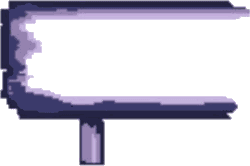
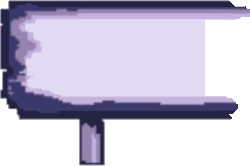
Jacques Hammer: smashed signs keep their face on every style
The halves of four sign styles had the pale board cut away as background;
rebuilt from the whole sign.

Claude-Session: https://claude.ai/code/session_01KjbiH1Gxo3FA48ifQDakKd

diff --git a/sw.js b/sw.js
@@ -1,6 +1,6 @@
 // Offline support. Always tries the network first so updates appear straight
 // away; falls back to the saved copy when there is no connection.
-const CACHE = 'latin-v124';
+const CACHE = 'latin-v125';
 const CORE = ['./', 'index.html', 'app.css', 'app.js', 'vocab.js', 'memory.js', 'phrases.js', 'effects.js', 'practice.js', 'hammer.js', 'read.js', 'synonyms.js', 'book.js', 'snap.js', 'forms.js', 'sync.js', 'beasts.js', 'manifest.webmanifest', ...["blaster1.png", "blaster2.png", "blaster3.png", "brain1.png", "brain2.png", "brain3.png", "freezeray1.png", "freezeturret1.png", "freezeturret2.png", "freezeturret3.png", "handy1.png", "handy2.png", "handy3.png", "mine1.png", "mine2.png", "mine3.png", "miner1.png", "miner2.png", "miner3.png", "plasma1.png", "proj_bullet.png", "proj_ice.png", "proj_lava.png", "proj_ring.png", "proj_rock.png", "shield1.png", "shield2.png", "shield3.png", "floaty1.png", "generator1.png", "generator2.png", "generator3.png", "solar1.png", "sonic1.png", "sonic2.png", "sonic3.png"].map(a => 'art/weapons/' + a), ...['grass', 'soil', 'path', 'mower', 'bush', 'fence'].map(a => 'art/lawn/' + a + '.png'), 'art/lawn/grass_real.jpg', 'art/banners/sentences.jpg', 'art/banners/cards.jpg', 'art/banners/wordlist.jpg', 'art/banners/squishygeddon.jpg', 'art/banners/hammer.jpg', 'art/banners/beastpedia.jpg', 'art/banners/passages.jpg', 'art/banners/book.jpg', 'art/banners/snap.jpg', 'art/banners/library.jpg', 'art/beasts/beasts.json', 'art/beasts/trumpets_l.png', 'art/beasts/trumpets_r.png', 'art/beasts/alba_adult.webp', 'art/beasts/alba_baby.webp', 'art/beasts/alba_egg.webp', 'art/beasts/alba_teen.webp', 'art/beasts/avenella_adult.webp', 'art/beasts/avenella_baby.webp', 'art/beasts/avenella_egg.webp', 'art/beasts/avenella_teen.webp', 'art/beasts/bayou_adult.webp', 'art/beasts/bayou_baby.webp', 'art/beasts/bayou_egg.webp', 'art/beasts/belpy_adult.webp', 'art/beasts/belpy_egg.webp', 'art/beasts/belpy_teen.webp', 'art/beasts/berai_adult.webp', 'art/beasts/berai_egg.webp', 'art/beasts/berai_teen.webp', 'art/beasts/candeerlabra_adult.webp', 'art/beasts/candeerlabra_baby.webp', 'art/beasts/candeerlabra_egg.webp', 'art/beasts/candeerlabra_teen.webp', 'art/beasts/catapus_adult.webp', 'art/beasts/catapus_baby.webp', 'art/beasts/catapus_egg.webp', 'art/beasts/catapus_teen.webp', 'art/beasts/cerebrain_adult.webp', 'art/beasts/cerebrain_baby.webp', 'art/beasts/cerebrain_teen.webp', 'art/beasts/cousi_adult.webp', 'art/beasts/cousi_egg.webp', 'art/beasts/cousi_teen.webp', 'art/beasts/creep_adult.webp', 'art/beasts/creep_baby.webp', 'art/beasts/creep_egg.webp', 'art/beasts/creep_teen.webp', 'art/beasts/crockasaur_adult.webp', 'art/beasts/crockasaur_baby.webp', 'art/beasts/crockasaur_egg.webp', 'art/beasts/crockasaur_teen.webp', 'art/beasts/dandilion_adult.webp', 'art/beasts/dandilion_baby.webp', 'art/beasts/dandilion_egg.webp', 'art/beasts/dandilion_teen.webp', 'art/beasts/dueljaw_adult.webp', 'art/beasts/dueljaw_baby.webp', 'art/beasts/dueljaw_egg.webp', 'art/beasts/dueljaw_teen.webp', 'art/beasts/efarium_adult.webp', 'art/beasts/efarium_baby.webp', 'art/beasts/efarium_egg.webp', 'art/beasts/eir_adult.webp', 'art/beasts/eir_baby.webp', 'art/beasts/eir_egg.webp', 'art/beasts/eir_teen.webp', 'art/beasts/essie_baby.webp', 'art/beasts/essie_egg.webp', 'art/beasts/firelot_adult.webp', 'art/beasts/firelot_teen.webp', 'art/beasts/flamondis_adult.webp', 'art/beasts/flamondis_baby.webp', 'art/beasts/flamondis_egg.webp', 'art/beasts/flamondis_teen.webp', 'art/beasts/frogit_adult.webp', 'art/beasts/frogit_baby.webp', 'art/beasts/frogit_egg.webp', 'art/beasts/frogit_teen.webp', 'art/beasts/furexa_adult.webp', 'art/beasts/furexa_baby.webp', 'art/beasts/furexa_egg.webp', 'art/beasts/furexa_teen.webp', 'art/beasts/griffix_adult.webp', 'art/beasts/griffix_baby.webp', 'art/beasts/griffix_egg.webp', 'art/beasts/harparee_adult.webp', 'art/beasts/harparee_baby.webp', 'art/beasts/ifrit_adult.webp', 'art/beasts/ifrit_egg.webp', 'art/beasts/ifrit_teen.webp', 'art/beasts/ingens_adult.webp', 'art/beasts/ingens_baby.webp', 'art/beasts/ingens_egg.webp', 'art/beasts/javara_adult.webp', 'art/beasts/javara_baby.webp', 'art/beasts/javara_egg.webp', 'art/beasts/jaxi_adult.webp', 'art/beasts/jaxi_baby.webp', 'art/beasts/jaxi_egg.webp', 'art/beasts/jaxi_teen.webp', 'art/beasts/jugglax_adult.webp', 'art/beasts/jugglax_baby.webp', 'art/beasts/jugglax_egg.webp', 'art/beasts/jugglax_teen.webp', 'art/beasts/leopix_adult.webp', 'art/beasts/leopix_baby.webp', 'art/beasts/leopix_teen.webp', 'art/beasts/lizanaut_adult.webp', 'art/beasts/lizanaut_baby.webp', 'art/beasts/lizanaut_egg.webp', 'art/beasts/lizanaut_teen.webp', 'art/beasts/mamoth_adult.webp', 'art/beasts/mamoth_baby.webp', 'art/beasts/mamoth_egg.webp', 'art/beasts/mamoth_teen.webp', 'art/beasts/manateeth_adult.webp', 'art/beasts/manateeth_baby.webp', 'art/beasts/manateeth_egg.webp', 'art/beasts/manateeth_teen.webp', 'art/beasts/moxi_adult.webp', 'art/beasts/moxi_baby.webp', 'art/beasts/moxi_egg.webp', 'art/beasts/nebula_adult.webp', 'art/beasts/nebula_baby.webp', 'art/beasts/nebula_egg.webp', 'art/beasts/nebula_teen.webp', 'art/beasts/noellia_adult.webp', 'art/beasts/noellia_baby.webp', 'art/beasts/noellia_egg.webp', 'art/beasts/noellia_teen.webp', 'art/beasts/nomobobo_adult.webp', 'art/beasts/nomobobo_baby.webp', 'art/beasts/nomobobo_egg.webp', 'art/beasts/nomobobo_teen.webp', 'art/beasts/opal_adult.webp', 'art/beasts/opal_baby.webp', 'art/beasts/opal_egg.webp', 'art/beasts/opal_teen.webp', 'art/beasts/orzala_adult.webp', 'art/beasts/orzala_baby.webp', 'art/beasts/orzala_egg.webp', 'art/beasts/orzala_teen.webp', 'art/beasts/owlet_adult.webp', 'art/beasts/owlet_baby.webp', 'art/beasts/owlet_egg.webp', 'art/beasts/owlet_teen.webp', 'art/beasts/pangash_adult.webp', 'art/beasts/pangash_baby.webp', 'art/beasts/pangash_egg.webp', 'art/beasts/pangash_teen.webp', 'art/beasts/pookie_adult.webp', 'art/beasts/pookie_baby.webp', 'art/beasts/pookie_egg.webp', 'art/beasts/pookie_teen.webp', 'art/beasts/pulsar_adult.webp', 'art/beasts/pulsar_baby.webp', 'art/beasts/pulsar_egg.webp', 'art/beasts/pulsar_teen.webp', 'art/beasts/raghu_adult.webp', 'art/beasts/raghu_baby.webp', 'art/beasts/raghu_egg.webp', 'art/beasts/raghu_teen.webp', 'art/beasts/raxa_baby.webp', 'art/beasts/raxa_egg.webp', 'art/beasts/raxa_teen.webp', 'art/beasts/royalvizaro_adult.webp', 'art/beasts/royalvizaro_baby.webp', 'art/beasts/royalvizaro_egg.webp', 'art/beasts/royalvizaro_teen.webp', 'art/beasts/salmandem_adult.webp', 'art/beasts/salmandem_baby.webp', 'art/beasts/salmandem_egg.webp', 'art/beasts/salmandem_teen.webp', 'art/beasts/shelilla_adult.webp', 'art/beasts/shelilla_baby.webp', 'art/beasts/shelilla_egg.webp', 'art/beasts/shelilla_teen.webp', 'art/beasts/slooga_adult.webp', 'art/beasts/slooga_baby.webp', 'art/beasts/slooga_egg.webp', 'art/beasts/sunbe_adult.webp', 'art/beasts/sunbe_baby.webp', 'art/beasts/sunbe_egg.webp', 'art/beasts/sunbe_teen.webp', 'art/beasts/thraxol_adult.webp', 'art/beasts/thraxol_egg.webp', 'art/beasts/thraxol_teen.webp', 'rig.js', ...["blaster1.json", "blaster1.png", "blaster3.json", "blaster3.png", "freezeray1.json", "freezeray1.png", "freezeturret2.json", "freezeturret2.png", "freezeturret3.json", "freezeturret3.png", "handy1.json", "handy1.png", "handy3.json", "handy3.png", "mine1.json", "mine1.png", "mine2.json", "mine2.png", "mine3.json", "mine3.png", "miner1.json", "miner1.png", "miner2.json", "miner2.png", "miner3.json", "miner3.png", "solar1.json", "solar1.png", "sonic1.json", "sonic1.png", "sonic2.json", "sonic2.png", "sonic3.json", "sonic3.png", "kamikaze.json", "kamikaze.png", "chomp.json", "chomp.png", "skitter.json", "skitter.png", "flying.json", "flying.png", "chompking.json", "chompking.png", "broodqueen.json", "broodqueen.png", "ghostking.json", "ghostking.png", "sharky.json", "sharky.png", "sharkling.json", "sharkling.png", "unicorn.json", "unicorn.png", "jacque.json", "jacque.png", "decoy.json", "decoy.png", "dog.json", "dog.png", "dog_gb.json", "dog_gb.png", "dog_gc.json", "dog_gc.png", "dog_gg.json", "dog_gg.png", "dog_gp.json", "dog_gp.png", "barrelsmoke.json", "barrelsmoke.png", "generator1.json", "generator1.png", "generator2.json", "generator2.png", "generator3.json", "generator3.png"].map(a => 'art/rigs/' + a), 'art/ui/paper.jpg', 'icons/apple-touch-icon.png', 'icons/icon-192.png', 'icons/icon-512.png', 'icons/favicon-32.png'];
 const FILES = ['./', 'index.html', 'app.css', 'app.js', 'vocab.js', 'memory.js', 'phrases.js', 'effects.js', 'practice.js', 'hammer.js', 'sync.js',
   'manifest.webmanifest',

diff --git a/app.js b/app.js
@@ -20,7 +20,7 @@ const EMOJIS = ['🐶','🐱','🐭','🐹','🐰','🦊','🐻','🐼','🐨','
   '🌞','🌙','⭐','🌈','☁','⚡','❄','🔥','💧','🌊',
   '🌸','🌻','🌵','🌲','🍀','💎','👑','🎁','🎈','🔔'];
 
-const APP_VERSION = '124';
+const APP_VERSION = '125';
 const DAY = 86400000;
 // spaced repetition: each right answer earns a star and a longer rest before the word comes round again
 // (10 minutes, then a day, 3 days, a week, a month); a wrong answer drops it to zero stars and brings it straight back

diff --git a/CLAUDE.md b/CLAUDE.md
@@ -426,7 +426,7 @@ Per-player counters live in
   keys and per-slot hooks. The old part-by-part drawing (`meta.json` boxes)
   remains for the seven costumes that came only as flat pictures (disco,
   suit, samurai, astronaut, cowboy, karate, turban: `body` is one cut-out on
-  recoloured standard legs) and as a fallback; signs `sign0-7` (+ `_l`/`_r` halves) with six wooden styles
+  recoloured standard legs) and as a fallback; signs `sign0-7` (+ `_l`/`_r` halves; the halves of styles 1, 2, 6, 7 were rebuilt from the whole sign because the pale face had been cut away as background) with six wooden styles
   cycling by level and green/red once judged; `title_tall/wide.jpg` start
   screen. Progress in `latin.hammer.<id>` {best, level, cleared, coins,
   earned, owned[], wear{skin, weapon, pup}}.
